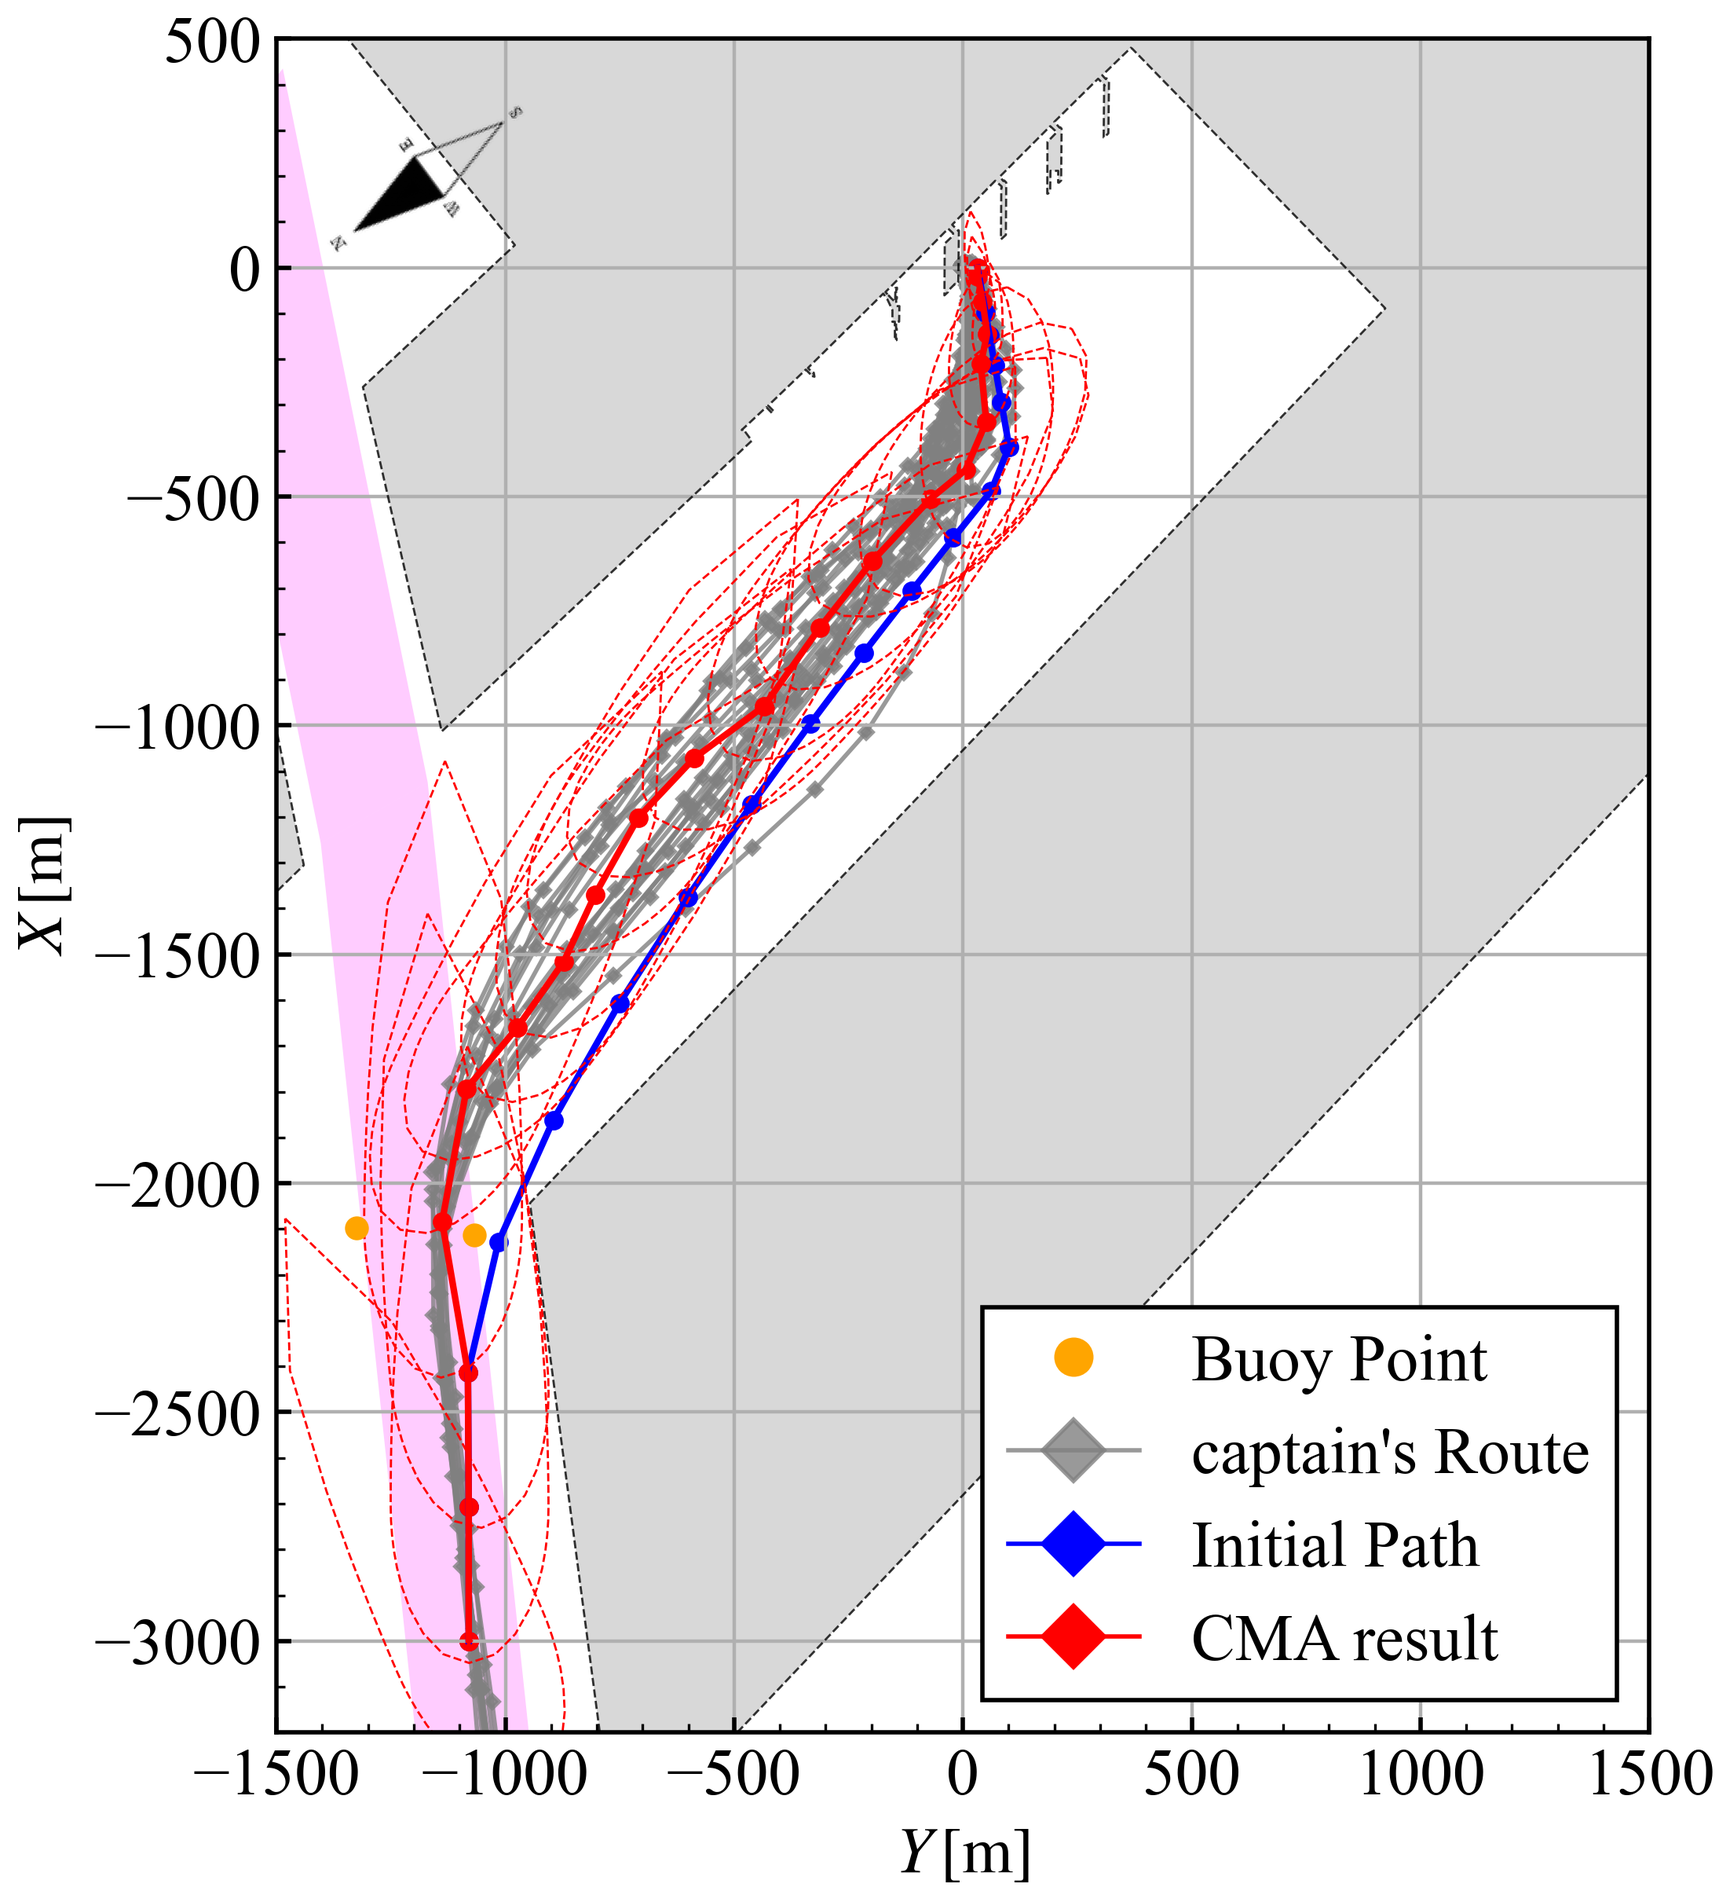
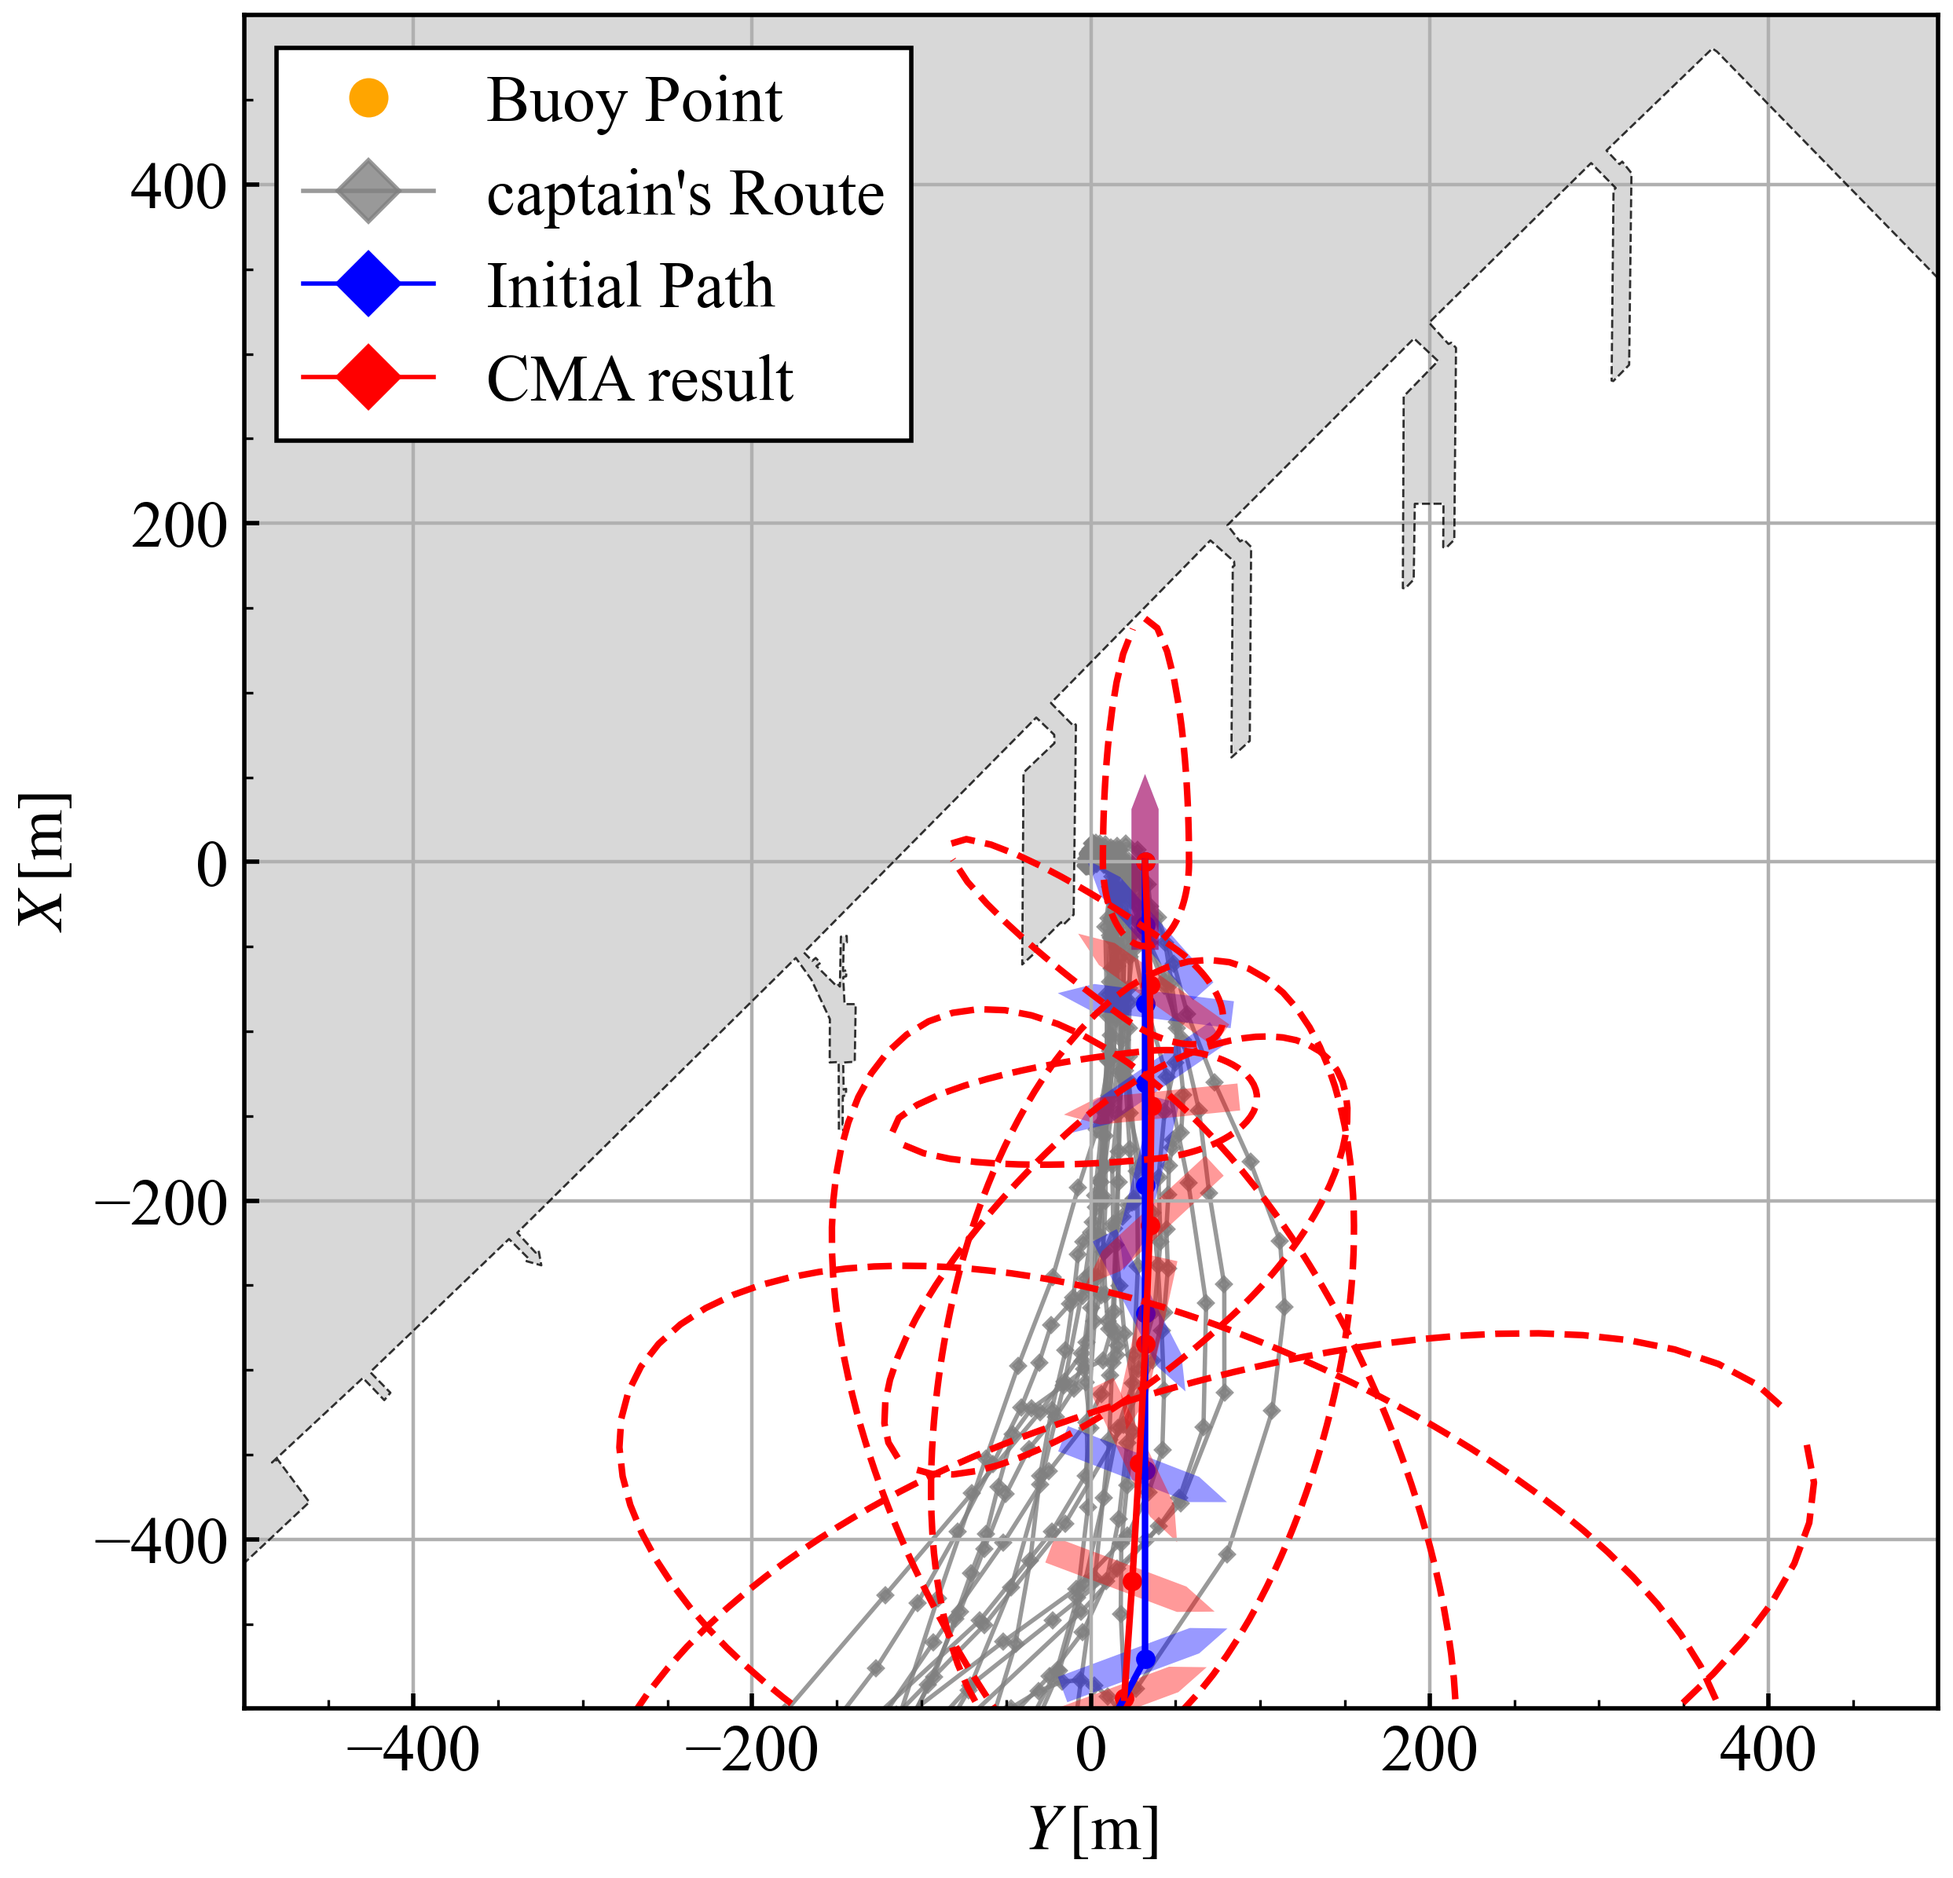
回頭開始地点設定するか

diff --git a/program/path_planning/CMA-ES3.py b/program/path_planning/CMA-ES3.py
@@ -29,7 +29,7 @@ dirname = os.path.splitext(os.path.basename(__file__))[0]
 class Setting:
     def __init__(self):
         # port
-        self.port_number: int = 9
+        self.port_number: int = 4
          # 0: Osaka_1A, 1: Tokyo_2C, 2: Yokkaichi_2B, 3: Else_1, 4: Osaka_1B
          # 5: Else_2, 6: Kashima, 7: Aomori, 8: Hachinohe, 9: Shimizu
          # 10: Tomakomai, 11: KIX
@@ -216,6 +216,9 @@ class CostCalculator:
         SD = self.SD
         lines = self.lines
         theta_list = np.arange(np.deg2rad(0), np.deg2rad(360), np.deg2rad(3))
+        # theta_list_1 = np.arange(np.deg2rad(0), np.deg2rad(90), np.deg2rad(3))
+        # theta_list_2 = np.arange(np.deg2rad(270), np.deg2rad(360), np.deg2rad(3))
+        # theta_list = np.vstack([theta_list_1, theta_list_2])
         
         speed = cal_speed(self, pt, lines[-1].end_pt)
         r_list = []
@@ -846,7 +849,8 @@ class MakeLine:
             elif self.ps.target == "beta":
                 arr_i = arr[i].reshape(-1, 3)
                 poly = np.vstack([start, arr_i, end])
-                pts = poly[:, :2]; head = poly[:, 2] 
+                pts = poly[:, :2]; head = poly[:, 2]
+                pts[-1] = self.init_pts[-1]
 
                 # ship domain
                 SD_cost = 0.0
@@ -1104,7 +1108,8 @@ class MakeLine:
 
         list = np.asarray(best_mean, float).reshape(-1, 3)
         poly = np.vstack([start, list, end])
-        path = poly[:, :2]; head = poly[:, 2] 
+        path = poly[:, :2]; head = poly[:, 2]
+        path[-1] = self.init_pts[-1]
 
         # path, point
         h1, = ax.plot(path[:, 1], path[:, 0], color="red", linestyle='-')
@@ -1228,6 +1233,7 @@ class MakeLine:
                 "side": "port",
                 "style": "head out",
                 "start": [2450.0, 2300.0],
+                "turn start": [200, 100],
                 "psi_start": -145,
                 "psi_end": 0,
                 "berth_type": 1,
@@ -1297,6 +1303,7 @@ class MakeLine:
                 "side": "port",
                 "style": "head out",
                 "start": [1700, -2800],
+                "turn start": [200, 100],
                 "psi_start": 120,
                 "psi_end": 0,
                 "berth_type": 2,
